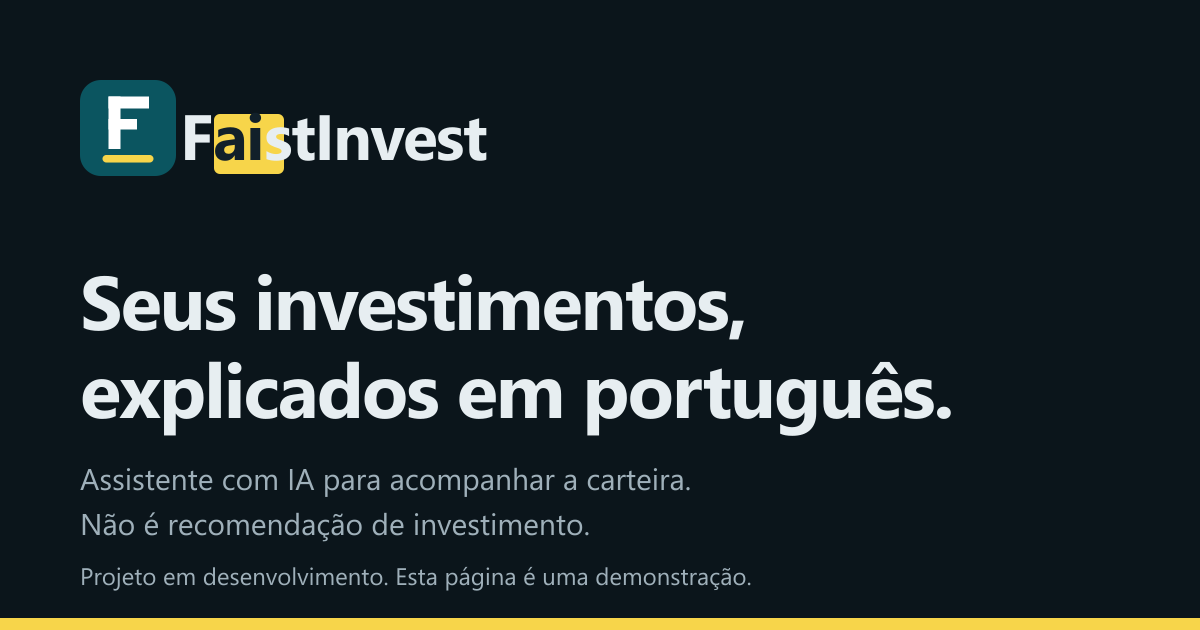
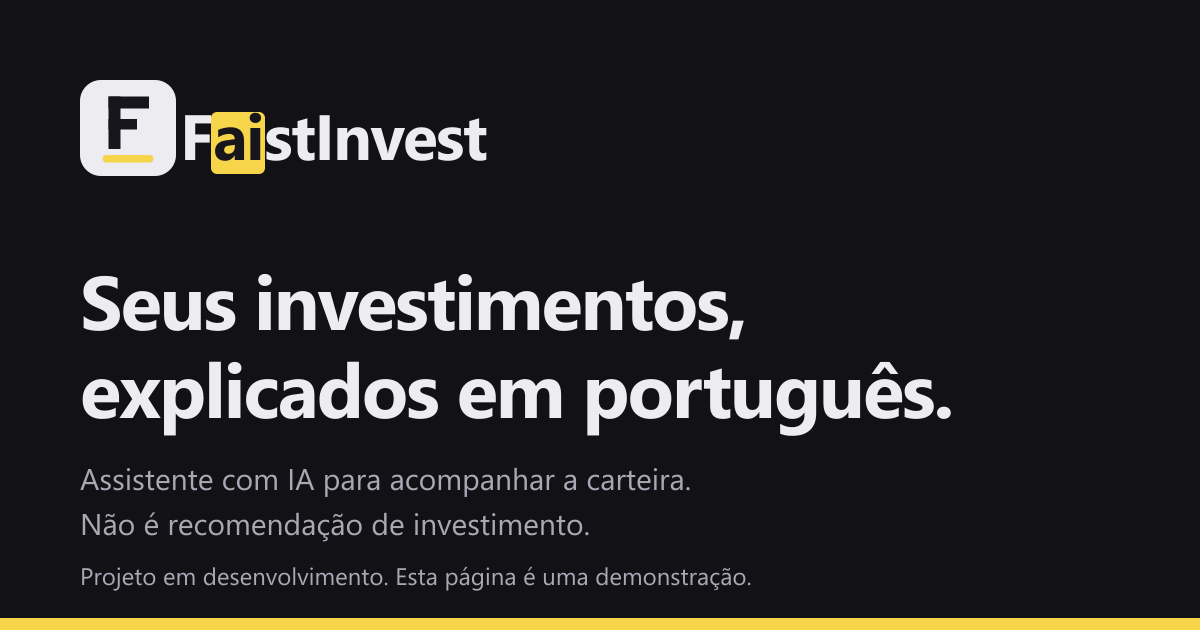
fix: ajustes da revisão (tickers fictícios, marca-texto legível no escuro, identidade tinta + amarelo sem teal, títulos próprios, menu sem JS, crédito para phmr.com.br)

Changed region(s): [[0.0617, 0.1206, 0.1542, 0.3016], [0.2158, 0.181, 0.2467, 0.2714]]

diff --git a/src/styles/global.css b/src/styles/global.css
@@ -6,51 +6,57 @@
    que só aparece onde a IA destaca o que importa. O marca-texto é a única ousadia da página. */
 :root {
   color-scheme: light;
-  --radius: 0.5rem;
 
-  --background: #f4f7f7;
+  --background: #f5f5f7;
   --surface: #ffffff;
-  --foreground: #11202a;
-  --muted-foreground: #475963;
-  --border: #d2dbdf;
-  --input: #66777f;
-  --ring: #0b5560;
-  --link: #0b5560;
-  --primary: #0b5560;
-  --primary-hover: #08434c;
+  --foreground: #17161d;
+  --muted-foreground: #53525c;
+  --border: #d9d8de;
+  --input: #6c6b76;
+  --ring: #4338ca;
+  --link: #4338ca;
+  --primary: #17161d;
+  --primary-hover: #35343f;
   --primary-foreground: #ffffff;
   --marker: #f7d54a;
-  --marker-ink: #11202a;
+  --marker-ink: #17161d;
+  --marca-fundo: #f7d54a;
+  --marca-texto: #17161d;
+  --logo-fundo: #17161d;
+  --logo-letra: #ffffff;
   --faixa: #f7d54a;
-  --faixa-ink: #11202a;
+  --faixa-ink: #17161d;
   --alta: #1c6b3a;
   --queda: #a02f2f;
-  --neutro: #475963;
+  --neutro: #53525c;
 }
 
 :root[data-theme="dark"] {
   color-scheme: dark;
 
-  --background: #0b151b;
-  --surface: #121f27;
-  --foreground: #e7eef1;
-  --muted-foreground: #9fb0ba;
-  --border: #243541;
-  --input: #6f8794;
-  --ring: #5bd0d6;
-  --link: #6fd0d5;
-  --primary: #5bd0d6;
-  --primary-hover: #7fdde2;
-  --primary-foreground: #06242a;
+  --background: #121116;
+  --surface: #1b1a21;
+  --foreground: #ececf1;
+  --muted-foreground: #a9a8b4;
+  --border: #2d2c36;
+  --input: #7d7c8a;
+  --ring: #b9b4ff;
+  --link: #b9b4ff;
+  --primary: #ececf1;
+  --primary-hover: #ffffff;
+  --primary-foreground: #17161d;
+  --marca-fundo: #6e5c0c;
+  --marca-texto: #ececf1;
+  --logo-fundo: #ececf1;
+  --logo-letra: #17161d;
   --alta: #6fd08f;
   --queda: #ff9a9a;
-  --neutro: #9fb0ba;
+  --neutro: #a9a8b4;
 }
 
 @theme inline {
   --color-background: var(--background);
   --color-foreground: var(--foreground);
-  --color-border: var(--border);
   --color-ring: var(--ring);
   --color-primary: var(--primary);
   --color-primary-foreground: var(--primary-foreground);
@@ -58,7 +64,6 @@
 }
 
 @layer base {
-  * { @apply border-border; }
   body { @apply bg-background text-foreground font-sans antialiased; }
   :focus-visible { outline: 2px solid var(--ring); outline-offset: 3px; }
 }
@@ -143,6 +148,8 @@ body { text-rendering: optimizeLegibility; }
 
 .logo { display: inline-flex; align-items: center; gap: 0.625rem; min-height: 2.75rem; color: var(--foreground); font-weight: 700; font-size: 1.25rem; letter-spacing: -0.03em; }
 .logo svg { width: 2rem; height: 2rem; flex: none; }
+.logo-m-fundo { fill: var(--logo-fundo); }
+.logo-m-letra { fill: var(--logo-letra); }
 .logo-ai { background: var(--marker); color: var(--marker-ink); padding: 0 0.08em; border-radius: 0.2em; }
 
 .nav-links { display: none; align-items: center; gap: 0.25rem; }
@@ -160,7 +167,7 @@ body { text-rendering: optimizeLegibility; }
 @media (min-width: 34rem) { .acoes-topo .botao-topo { display: inline-flex; } }
 
 .menu-painel { border-top: 1px solid var(--border); background: var(--background); }
-.menu-painel[hidden] { display: none; }
+.js .menu-painel:not([data-aberto]) { display: none; }
 .menu-painel nav { display: flex; flex-direction: column; padding-block: 0.5rem; }
 .menu-painel a { display: flex; align-items: center; min-height: 3rem; font-size: 1.0625rem; border-bottom: 1px solid var(--border); }
 .menu-painel a:last-child { border-bottom: 0; }
@@ -193,22 +200,24 @@ body { text-rendering: optimizeLegibility; }
 .titulo-hero { font-size: clamp(2.5rem, 1.6rem + 4.2vw, 4.75rem); line-height: 1.02; letter-spacing: -0.04em; font-weight: 750; text-wrap: balance; }
 .titulo-secao { font-size: clamp(1.875rem, 1.35rem + 2.2vw, 3rem); line-height: 1.08; letter-spacing: -0.03em; font-weight: 700; text-wrap: balance; }
 .lide { font-size: clamp(1.0625rem, 1rem + 0.35vw, 1.25rem); line-height: 1.55; color: var(--muted-foreground); max-width: 38rem; text-wrap: pretty; }
-.texto-suave { color: var(--muted-foreground); }
 
-/* Marca-texto: a ousadia única */
+/* Marca-texto: a ousadia única. O amarelo é um ::before animado por transform (scaleX) atrás do texto;
+   a cor do texto lê bem sobre o fundo da página e sobre o amarelo (no escuro, o amarelo é um ouro fechado). */
 .marca {
-  background-image: linear-gradient(var(--marker), var(--marker));
-  background-repeat: no-repeat; background-position: 0 0; background-size: 100% 100%;
-  color: var(--marker-ink); padding: 0.04em 0.2em; margin-inline: -0.1em;
-  -webkit-box-decoration-break: clone; box-decoration-break: clone; border-radius: 0.15em;
+  position: relative; isolation: isolate; display: inline-block; padding: 0.04em 0.25em; margin-inline: -0.1em;
+  color: var(--marca-texto); background: transparent;
+}
+.marca::before {
+  content: ""; position: absolute; inset: 0; z-index: -1; background: var(--marca-fundo); border-radius: 0.15em;
+  transform-origin: left center;
 }
 @media (prefers-reduced-motion: no-preference) {
-  .js [data-reveal] .marca {
-    background-size: 0% 100%;
-    transition: background-size 700ms var(--ease-out-soft);
-    transition-delay: calc(450ms + var(--m, 0) * 260ms);
+  .js [data-reveal] .marca::before {
+    transform: scaleX(0);
+    transition: transform var(--dur-enter-text) var(--ease-out-soft);
+    transition-delay: calc(var(--dur-enter-text) + var(--m, 0) * var(--dur-stagger) * 6);
   }
-  .js [data-reveal].is-shown .marca { background-size: 100% 100%; }
+  .js [data-reveal].is-shown .marca::before { transform: none; }
 }
 
 /* Hero */
@@ -225,7 +234,7 @@ body { text-rendering: optimizeLegibility; }
 }
 :root[data-theme="dark"] .resumo { box-shadow: 0 18px 40px -24px rgb(0 0 0 / 0.7); }
 .resumo-topo { display: flex; align-items: center; justify-content: space-between; gap: 0.75rem; padding: 0.875rem 1.25rem; border-bottom: 1px solid var(--border); }
-.resumo-topo h3 { font-size: 1rem; font-weight: 700; letter-spacing: -0.01em; }
+.resumo-topo h2 { font-size: 1rem; font-weight: 700; letter-spacing: -0.01em; }
 .selo-exemplo { display: inline-flex; align-items: center; min-height: 1.5rem; padding: 0 0.5rem; border: 1px dashed var(--input); border-radius: 0.25rem; font-size: 0.8125rem; color: var(--muted-foreground); white-space: nowrap; }
 .resumo ul { list-style: none; margin: 0; padding: 0; }
 .resumo-item { padding: 1rem 1.25rem; border-bottom: 1px solid var(--border); }

diff --git a/src/scripts/interacoes.ts b/src/scripts/interacoes.ts
@@ -9,7 +9,7 @@ const botaoTema = document.querySelector<HTMLButtonElement>('[data-tema-botao]')
 if (botaoTema) {
   const sincronizar = () => {
     const escuro = raiz.dataset.theme === 'dark';
-    document.querySelector('meta[name="theme-color"]')?.setAttribute('content', escuro ? '#0b151b' : '#f4f7f7');
+    document.querySelector('meta[name="theme-color"]')?.setAttribute('content', escuro ? '#121116' : '#f5f5f7');
     // Rótulo dinâmico (diz a ação), sem aria-pressed, para o leitor de tela não se contradizer.
     botaoTema.setAttribute('aria-label', (escuro ? botaoTema.dataset.rotuloClaro : botaoTema.dataset.rotuloEscuro) ?? '');
   };
@@ -80,11 +80,11 @@ const botaoMenu = document.querySelector<HTMLButtonElement>('[data-menu-botao]')
 const painelMenu = document.getElementById('menu-painel');
 function menu(abrir: boolean) {
   if (!botaoMenu || !painelMenu) return;
-  painelMenu.hidden = !abrir;
+  painelMenu.toggleAttribute('data-aberto', abrir);
   botaoMenu.setAttribute('aria-expanded', String(abrir));
   botaoMenu.setAttribute('aria-label', abrir ? 'Fechar menu' : 'Abrir menu');
 }
-botaoMenu?.addEventListener('click', () => menu(painelMenu?.hidden !== false));
+botaoMenu?.addEventListener('click', () => menu(!painelMenu?.hasAttribute('data-aberto')));
 painelMenu?.addEventListener('keydown', (e) => {
   if (e.key === 'Escape') {
     menu(false);
